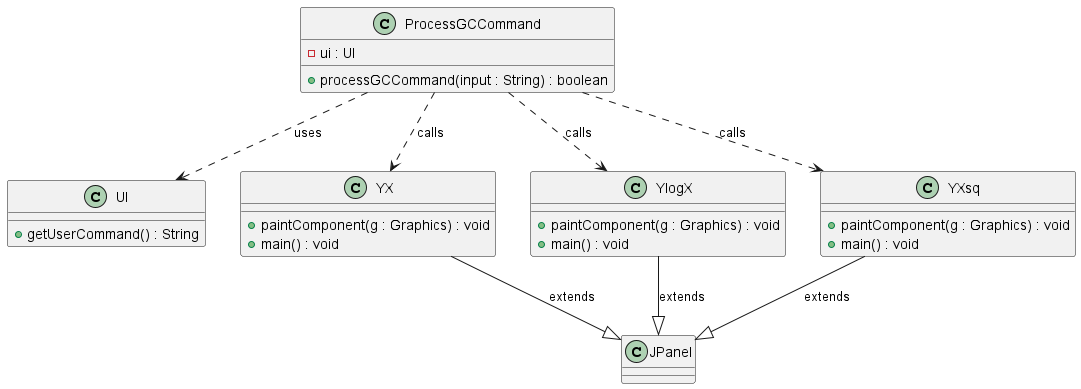
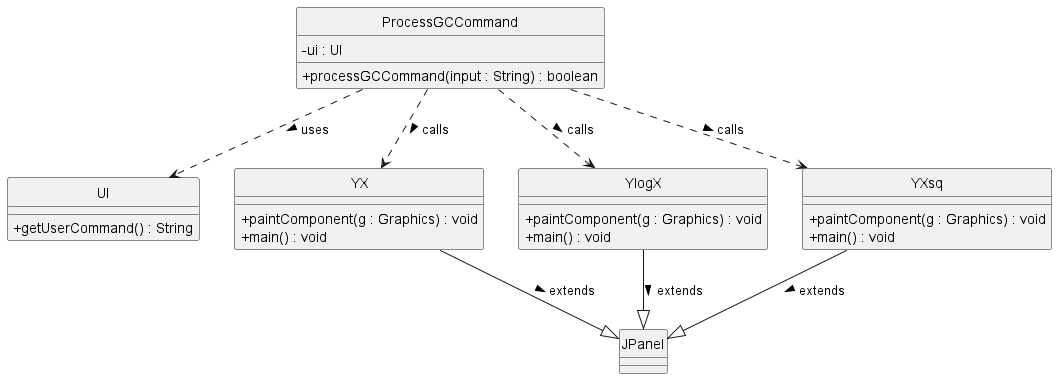
Standardize diagrams

diff --git a/docs/DeveloperGuide.md b/docs/DeveloperGuide.md
@@ -62,7 +62,7 @@ Given below is a quick overview of main components and how they interact with ea
 
 The bulk of the app's work is done by the following three components:
 
-- [`UI`](#ui): The UI of CantVas.
+- [`UI`](#ui): The UI of CantVas, in charge of interactions between the user and CantVas.
 - [`ProcessCommand`](#processcommand): Parses user input and executes the command.
 - [`Storage`](#storage): Reads and write data to the respective text file for each feature.
 
@@ -283,6 +283,7 @@ This guide will walk developers through the architecture, functionality, and cor
 The module is divided into 5 classes dealing with 2 different calculation methods.
 
 *Class Diagram*
+
 ![GPAClass.png](diagrams/classdiagram/GPAClass.png)
 
 ModuleList and Module: The diagram shows a composition relationship between ModuleList and Module, denoted by a 
